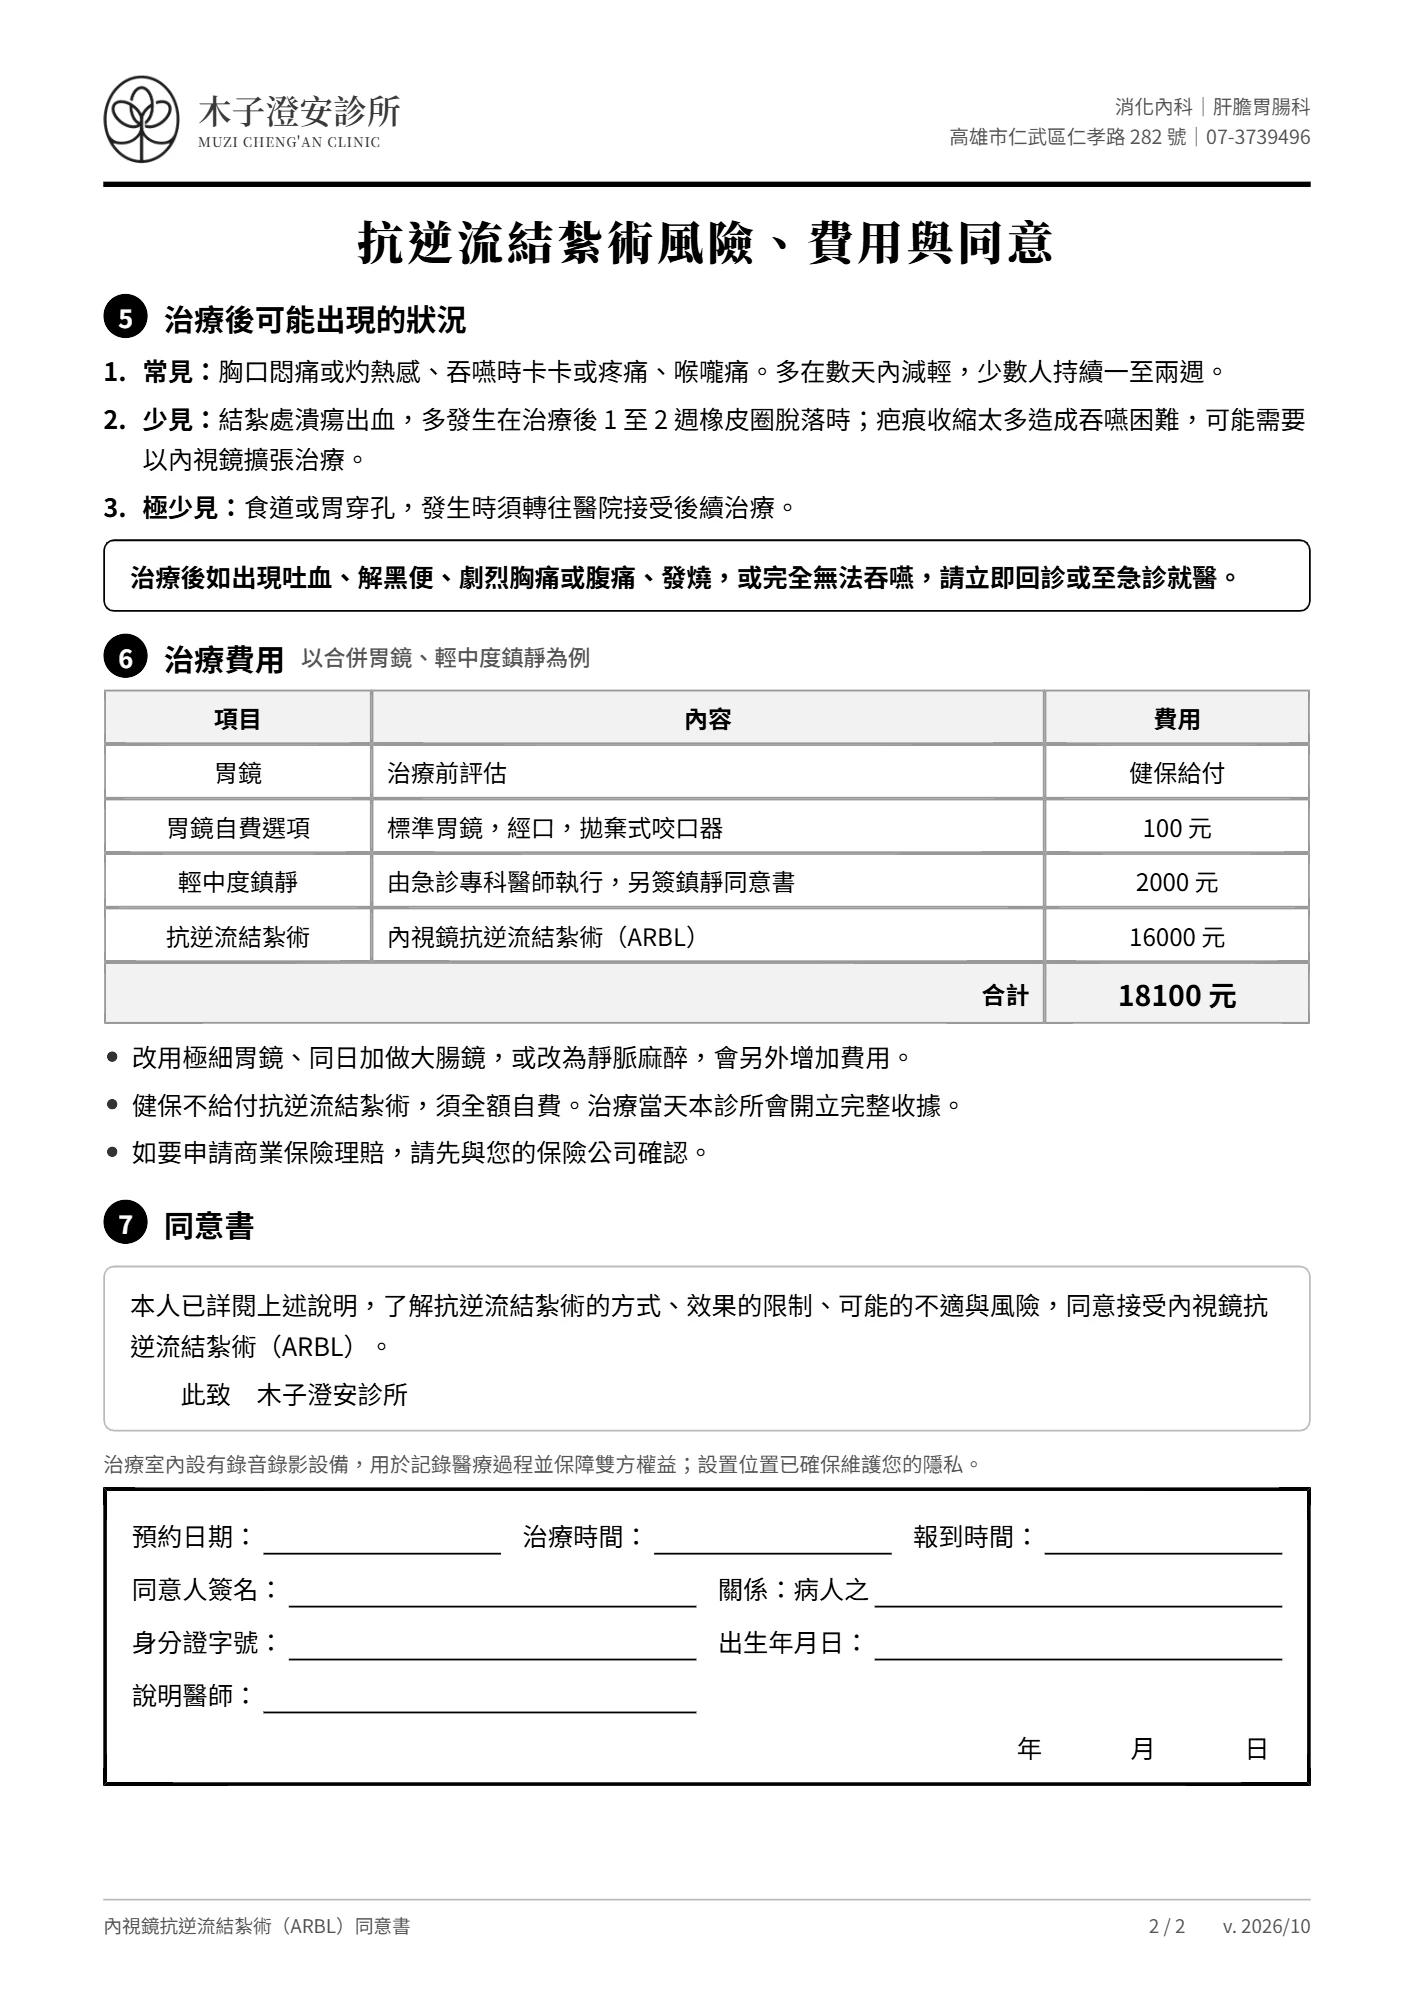
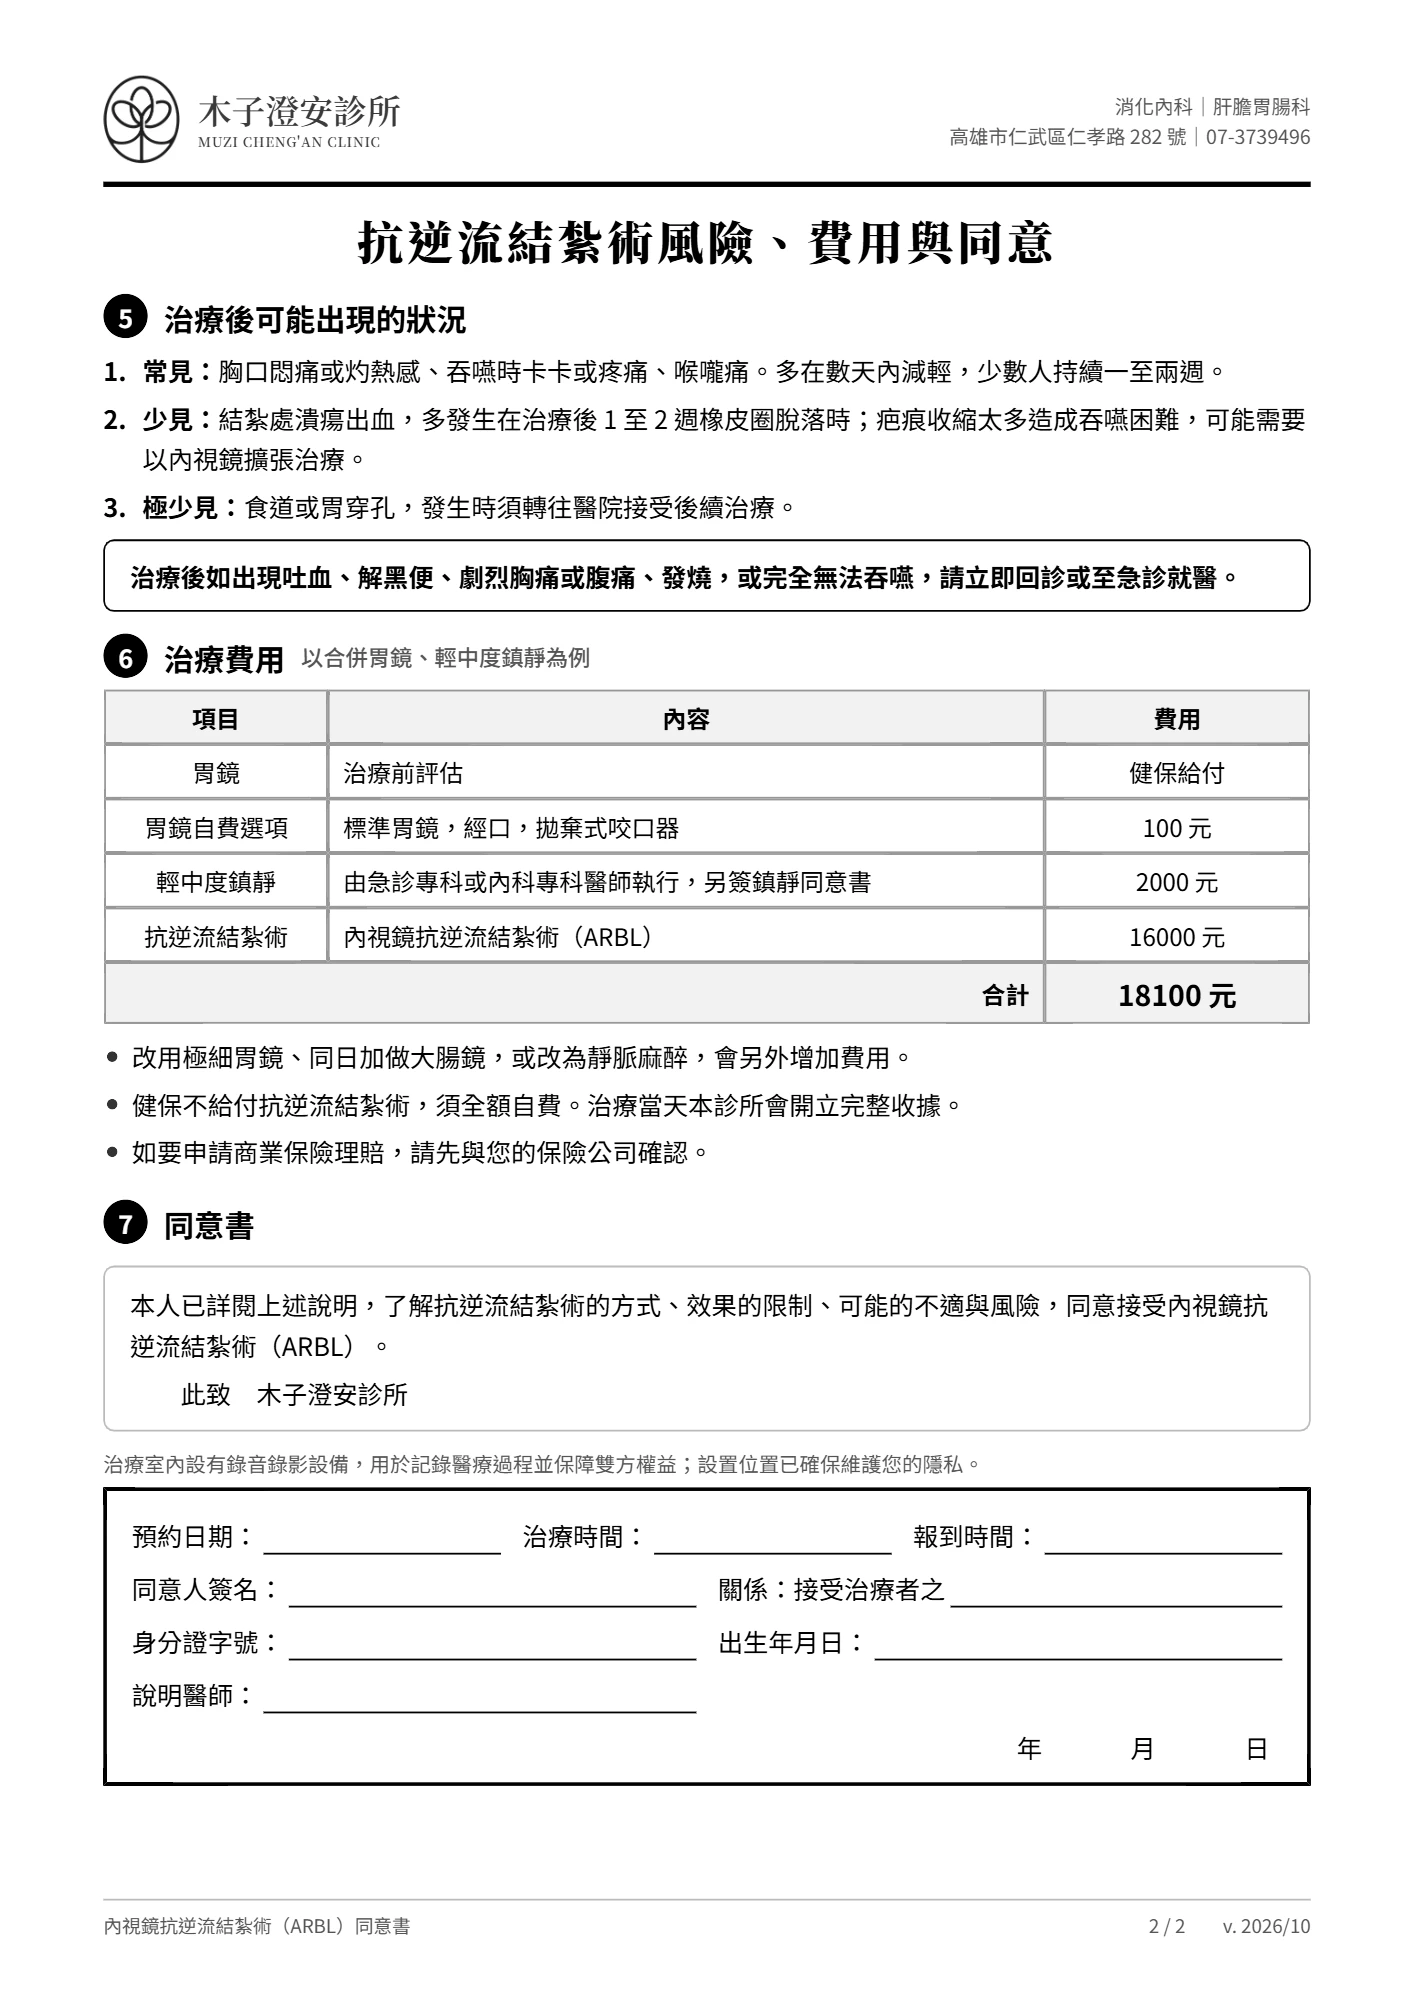
列印表單：鎮靜改由急診專科或內科專科醫師執行，冷凝刀與 ARBL 簽署欄改為接受治療者之
- 輕中度鎮靜同意書第 1 頁：方塊與表格「執行醫師」改為急診專科或內科專科醫師
- 冷凝刀、ARBL 費用表的輕中度鎮靜說明同步修改
- 冷凝刀、ARBL 簽署欄關係改為「接受治療者之」
- 重新輸出三張同意書圖片，快取版號改為 v43，改版日期 2026-11-05

Changed region(s): [[0.0934, 0.3412, 0.6223, 0.4962], [0.5601, 0.7754, 0.6535, 0.8064], [0.4668, 0.3412, 0.529, 0.3722]]

diff --git a/consent-src/pages.html b/consent-src/pages.html
@@ -345,7 +345,7 @@
     <li>本診所提供兩種舒眠檢查／治療方式：「輕中度鎮靜」與「靜脈麻醉」。規劃時以病人安全為第一原則，採專業分工的雙軌制度。</li>
     <li>不論選擇哪一種，負責鎮靜或麻醉的醫師都受過完整的急救與呼吸道處置訓練，能在第一時間處理鎮靜相關的風險：
       <div class="two" style="margin:5px 0 2px;gap:12px">
-        <div class="boxed" style="text-align:center"><span class="k">輕中度鎮靜</span>由<span class="k">急診專科醫師</span>執行</div>
+        <div class="boxed" style="text-align:center"><span class="k">輕中度鎮靜</span>由<span class="k">急診專科或內科專科醫師</span>執行</div>
         <div class="boxed" style="text-align:center"><span class="k">靜脈麻醉</span>由<span class="k">麻醉專科醫師</span>執行</div>
       </div>
     </li>
@@ -362,7 +362,7 @@
     <tr><th>拮抗藥物</th><td>flumazenil（可逆轉）</td><td>無拮抗劑（自然代謝）</td></tr>
     <tr><th>呼吸抑制風險</th><td>較低</td><td>較高，需全程監測呼吸</td></tr>
     <tr><th>舒適度</th><td>中度，可能有輕微感覺</td><td>高，過程通常沒有感覺</td></tr>
-    <tr><th>執行醫師</th><td>急診專科醫師</td><td>麻醉專科醫師</td></tr>
+    <tr><th>執行醫師</th><td>急診專科或內科專科醫師</td><td>麻醉專科醫師</td></tr>
     <tr><th>同意書</th><td>本同意書</td><td>另簽麻醉同意書</td></tr>
   </table>
 
@@ -475,7 +475,7 @@
     <tr><th>項目</th><th>內容</th><th style="width:22%">費用</th></tr>
     <tr><td>大腸鏡</td><td class="l">治療前評估</td><td>健保給付</td></tr>
     <tr><td>大腸鏡自費選項</td><td class="l">拋棄式檢查褲、二氧化碳充氣、日本製造代餐與清腸藥</td><td>1500 元</td></tr>
-    <tr><td>輕中度鎮靜</td><td class="l">由急診專科醫師執行，另簽鎮靜同意書</td><td>2500 元</td></tr>
+    <tr><td>輕中度鎮靜</td><td class="l">由急診專科或內科專科醫師執行，另簽鎮靜同意書</td><td>2500 元</td></tr>
     <tr><td>冷凝刀治療</td><td class="l">痔瘡能量治療</td><td>35500 元</td></tr>
     <tr><th colspan="2" style="text-align:right">合計</th><th style="font-size:16px">39500 元</th></tr>
   </table>
@@ -551,7 +551,7 @@
     <tr><th>項目</th><th>內容</th><th style="width:22%">費用</th></tr>
     <tr><td>胃鏡</td><td class="l">治療前評估</td><td>健保給付</td></tr>
     <tr><td>胃鏡自費選項</td><td class="l">標準胃鏡，經口，拋棄式咬口器</td><td>100 元</td></tr>
-    <tr><td>輕中度鎮靜</td><td class="l">由急診專科醫師執行，另簽鎮靜同意書</td><td>2000 元</td></tr>
+    <tr><td>輕中度鎮靜</td><td class="l">由急診專科或內科專科醫師執行，另簽鎮靜同意書</td><td>2000 元</td></tr>
     <tr><td>抗逆流結紮術</td><td class="l">內視鏡抗逆流結紮術（ARBL）</td><td>16000 元</td></tr>
     <tr><th colspan="2" style="text-align:right">合計</th><th style="font-size:16px">18100 元</th></tr>
   </table>
@@ -723,7 +723,7 @@ const ROWS = {
 };
 document.querySelectorAll('.final[data-kind]').forEach(b=>{
   const rows = (ROWS[b.dataset.kind] || []).concat([
-    [L('同意人簽名：'), L('關係：' + ({drug:'使用人之', treat:'病人之'}[b.dataset.kind] || '受檢人之'))],
+    [L('同意人簽名：'), L('關係：' + ({drug:'使用人之', treat:'接受治療者之'}[b.dataset.kind] || '受檢人之'))],
     [L('身分證字號：'), L('出生年月日：')],
     [L('說明醫師：'), '<div class="f"></div>'],
   ]);

diff --git a/consent-src/p-sedation.html b/consent-src/p-sedation.html
@@ -8,7 +8,7 @@
     <li>本診所提供兩種舒眠檢查／治療方式：「輕中度鎮靜」與「靜脈麻醉」。規劃時以病人安全為第一原則，採專業分工的雙軌制度。</li>
     <li>不論選擇哪一種，負責鎮靜或麻醉的醫師都受過完整的急救與呼吸道處置訓練，能在第一時間處理鎮靜相關的風險：
       <div class="two" style="margin:5px 0 2px;gap:12px">
-        <div class="boxed" style="text-align:center"><span class="k">輕中度鎮靜</span>由<span class="k">急診專科醫師</span>執行</div>
+        <div class="boxed" style="text-align:center"><span class="k">輕中度鎮靜</span>由<span class="k">急診專科或內科專科醫師</span>執行</div>
         <div class="boxed" style="text-align:center"><span class="k">靜脈麻醉</span>由<span class="k">麻醉專科醫師</span>執行</div>
       </div>
     </li>
@@ -25,7 +25,7 @@
     <tr><th>拮抗藥物</th><td>flumazenil（可逆轉）</td><td>無拮抗劑（自然代謝）</td></tr>
     <tr><th>呼吸抑制風險</th><td>較低</td><td>較高，需全程監測呼吸</td></tr>
     <tr><th>舒適度</th><td>中度，可能有輕微感覺</td><td>高，過程通常沒有感覺</td></tr>
-    <tr><th>執行醫師</th><td>急診專科醫師</td><td>麻醉專科醫師</td></tr>
+    <tr><th>執行醫師</th><td>急診專科或內科專科醫師</td><td>麻醉專科醫師</td></tr>
     <tr><th>同意書</th><td>本同意書</td><td>另簽麻醉同意書</td></tr>
   </table>
 

diff --git a/consent-src/p-het.html b/consent-src/p-het.html
@@ -58,7 +58,7 @@
     <tr><th>項目</th><th>內容</th><th style="width:22%">費用</th></tr>
     <tr><td>大腸鏡</td><td class="l">治療前評估</td><td>健保給付</td></tr>
     <tr><td>大腸鏡自費選項</td><td class="l">拋棄式檢查褲、二氧化碳充氣、日本製造代餐與清腸藥</td><td>1500 元</td></tr>
-    <tr><td>輕中度鎮靜</td><td class="l">由急診專科醫師執行，另簽鎮靜同意書</td><td>2500 元</td></tr>
+    <tr><td>輕中度鎮靜</td><td class="l">由急診專科或內科專科醫師執行，另簽鎮靜同意書</td><td>2500 元</td></tr>
     <tr><td>冷凝刀治療</td><td class="l">痔瘡能量治療</td><td>35500 元</td></tr>
     <tr><th colspan="2" style="text-align:right">合計</th><th style="font-size:16px">39500 元</th></tr>
   </table>

diff --git a/consent-src/p-arbl.html b/consent-src/p-arbl.html
@@ -54,7 +54,7 @@
     <tr><th>項目</th><th>內容</th><th style="width:22%">費用</th></tr>
     <tr><td>胃鏡</td><td class="l">治療前評估</td><td>健保給付</td></tr>
     <tr><td>胃鏡自費選項</td><td class="l">標準胃鏡，經口，拋棄式咬口器</td><td>100 元</td></tr>
-    <tr><td>輕中度鎮靜</td><td class="l">由急診專科醫師執行，另簽鎮靜同意書</td><td>2000 元</td></tr>
+    <tr><td>輕中度鎮靜</td><td class="l">由急診專科或內科專科醫師執行，另簽鎮靜同意書</td><td>2000 元</td></tr>
     <tr><td>抗逆流結紮術</td><td class="l">內視鏡抗逆流結紮術（ARBL）</td><td>16000 元</td></tr>
     <tr><th colspan="2" style="text-align:right">合計</th><th style="font-size:16px">18100 元</th></tr>
   </table>

diff --git a/consent-src/tail.html b/consent-src/tail.html
@@ -19,7 +19,7 @@ const ROWS = {
 };
 document.querySelectorAll('.final[data-kind]').forEach(b=>{
   const rows = (ROWS[b.dataset.kind] || []).concat([
-    [L('同意人簽名：'), L('關係：' + ({drug:'使用人之', treat:'病人之'}[b.dataset.kind] || '受檢人之'))],
+    [L('同意人簽名：'), L('關係：' + ({drug:'使用人之', treat:'接受治療者之'}[b.dataset.kind] || '受檢人之'))],
     [L('身分證字號：'), L('出生年月日：')],
     [L('說明醫師：'), '<div class="f"></div>'],
   ]);

diff --git a/sw.js b/sw.js
@@ -7,7 +7,7 @@
    外部程式庫與字型（網址含版本號，不會變）：有快取就直接用。
    檢驗截圖辨識（Tesseract.js）從 jsDelivr 載入，用過一次後斷網也能辨識。
    工作台開啟後會把所有衛教與表單圖片預先存下，斷網時也能顯示與列印。 */
-const CACHE = 'tools-v42';
+const CACHE = 'tools-v43';
 const CORE = [
   './', 'index.html',
   'mount.js', 'revision.js',

diff --git a/revision.js b/revision.js
@@ -2,7 +2,7 @@
    工作台（index.html）與臨床計算病人版（calc/index.html）都先載入這份，各工具再從 REVISION 讀自己的日期。
    報價單上的「價目版本」不在這裡：價格有變才改，見 quote/app.js 的 Q_PRICE_VERSION。 */
 const REVISION = {
-  hub:     '2026-11-04',
+  hub:     '2026-11-05',
   quote:   '2026-11-04',
   calc:    '2026-11-04',
   weight:  '2026-11-04',
